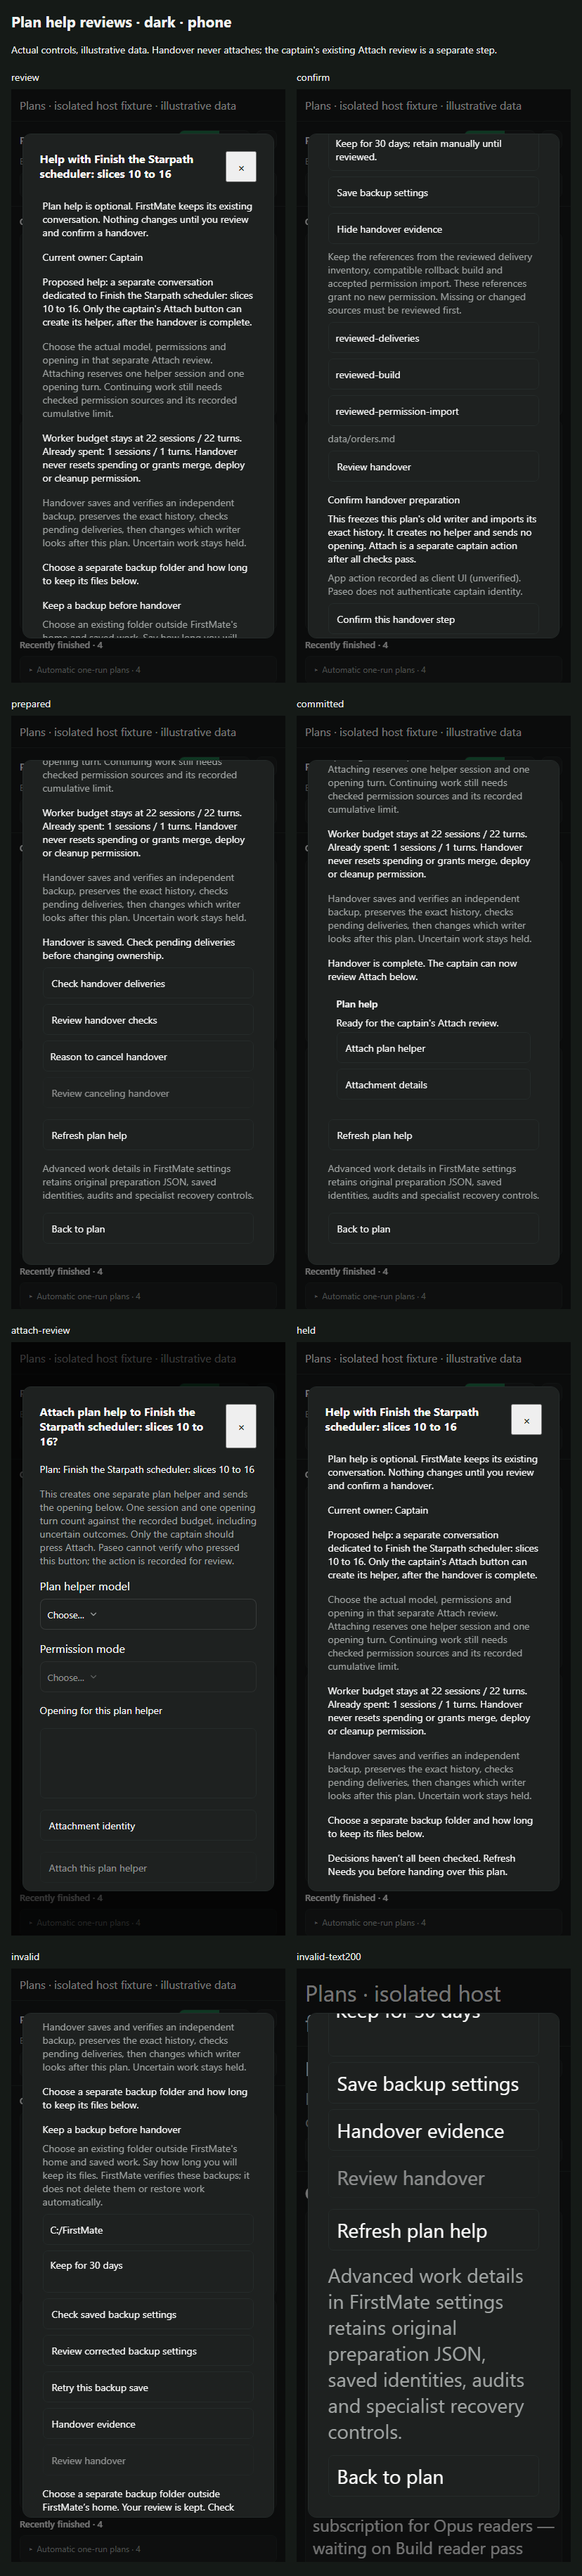
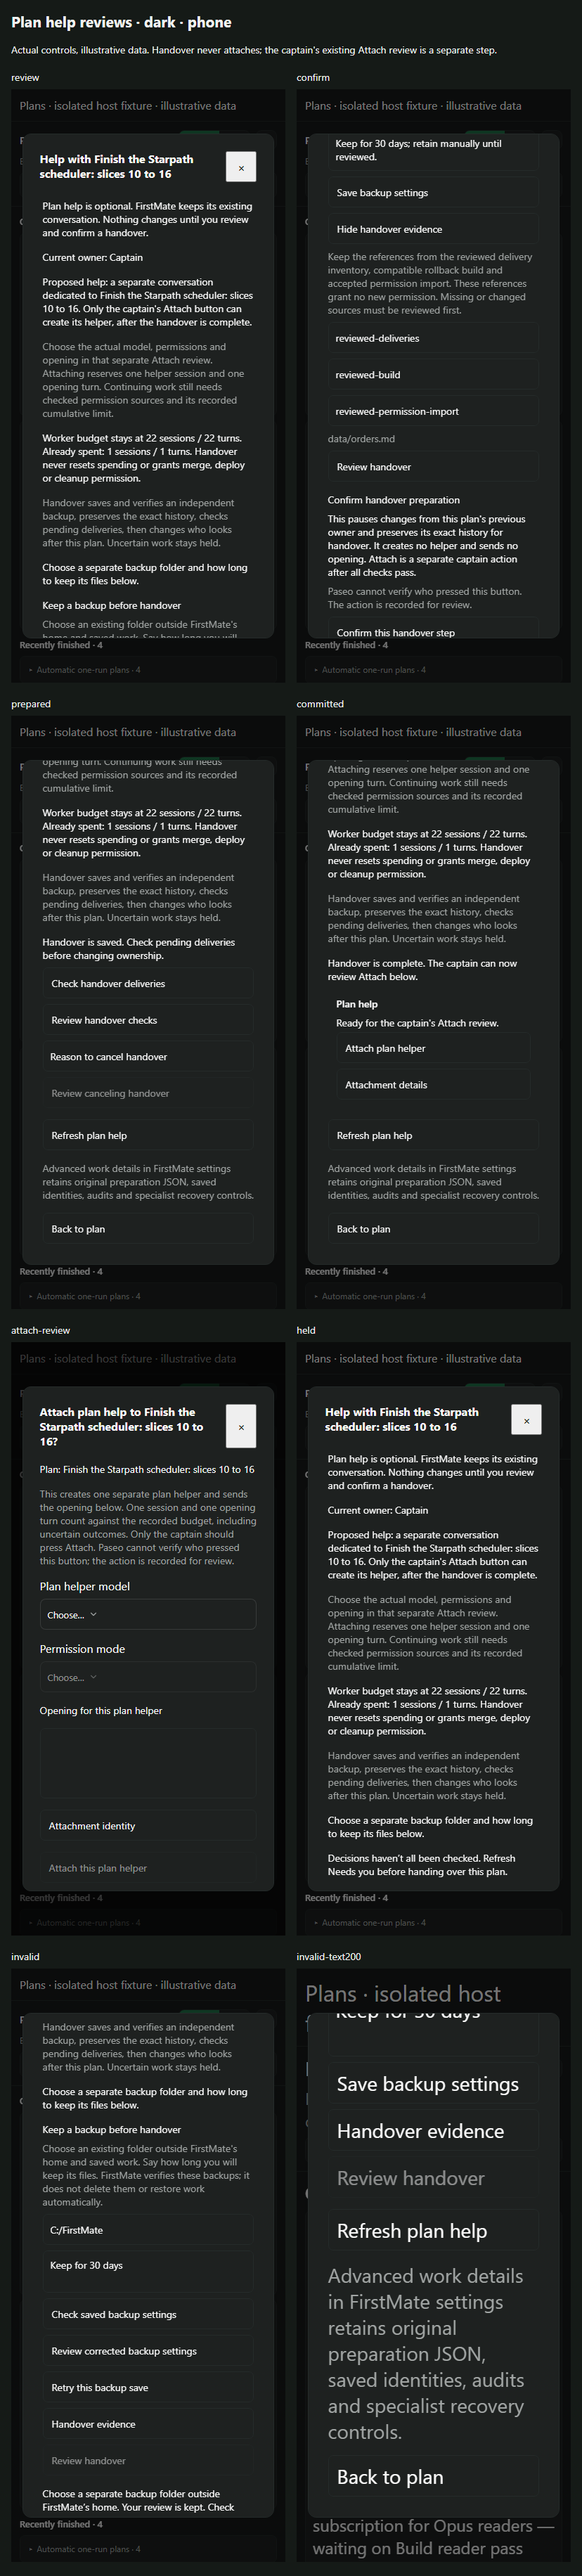
Use plan-owner language in handover reviews

Changed region(s): [[0.5737, 0.1867, 0.9058, 0.2489]]

diff --git a/client/plan-help.tsx b/client/plan-help.tsx
@@ -88,7 +88,7 @@ export function PlanHelpReview({ theme, homeId, planId, onClose }: { theme: Plug
       <Text style={foreground}>Proposed help: a separate conversation dedicated to {data.title}. Only the captain's Attach button can create its helper, after the handover is complete.</Text>
       <Text style={muted}>Choose the actual model, permissions and opening in that separate Attach review. Attaching reserves one helper session and one opening turn. Continuing work still needs checked permission sources and its recorded cumulative limit.</Text>
       <Text style={foreground}>Worker budget stays at {data.budget.agents} sessions / {data.budget.turns} turns. Already spent: {data.spent.agents} sessions / {data.spent.turns} turns. Handover never resets spending or grants merge, deploy or cleanup permission.</Text>
-      <Text style={muted}>Handover saves and verifies an independent backup, preserves the exact history, checks pending deliveries, then changes which writer looks after this plan. Uncertain work stays held.</Text>
+      <Text style={muted}>Handover saves and verifies an independent backup, preserves the exact history, checks pending deliveries, then changes who looks after this plan. Uncertain work stays held.</Text>
       {data.problems.map(problem => <Text key={problem} style={foreground}>{problem}</Text>)}
     </> : null}
     {!migration ? <View style={{ gap: 8 }}>
@@ -125,8 +125,8 @@ export function PlanHelpReview({ theme, homeId, planId, onClose }: { theme: Plug
     </View>}
     {review ? <View style={{ gap: 8 }}>
       <Text accessibilityRole="header" style={foreground}>{review.op === "prepare" ? "Confirm handover preparation" : review.op === "commit" ? "Confirm ownership change" : review.op === "abort" ? "Confirm canceling handover" : "Confirm handover check"}</Text>
-      <Text style={foreground}>{review.op === "prepare" ? "This freezes this plan's old writer and imports its exact history. It creates no helper and sends no opening. Attach is a separate captain action after all checks pass." : review.op === "commit" ? "Only the checked writer will own this plan. This does not attach a helper or grant additional permission." : review.op === "abort" ? "Release the prepared handover back to its previous writer. Saved history and spending remain. No message is resent." : "Run the existing checked handover step. Unknown effects remain held."}</Text>
-      <Text style={muted}>App action recorded as client UI (unverified). Paseo does not authenticate captain identity.</Text>
+      <Text style={foreground}>{review.op === "prepare" ? "This pauses changes from this plan's previous owner and preserves its exact history for handover. It creates no helper and sends no opening. Attach is a separate captain action after all checks pass." : review.op === "commit" ? "Confirm who looks after this plan using the checked handover. This does not attach a helper or grant additional permission." : review.op === "abort" ? "Return this plan to its previous owner. Saved history and spending remain. No message is resent." : "Run the existing checked handover step. Unknown effects remain held."}</Text>
+      <Text style={muted}>Paseo cannot verify who pressed this button. The action is recorded for review.</Text>
       <HelpButton theme={theme} label={uncertain ? "Retry this handover request" : "Confirm this handover step"} disabled={busy || !!activationError} onPress={() => { void run(); }} />
       {!pending.current ? <HelpButton theme={theme} label="Keep current owner" disabled={busy} onPress={() => setReview(null)} /> : null}
     </View> : null}
